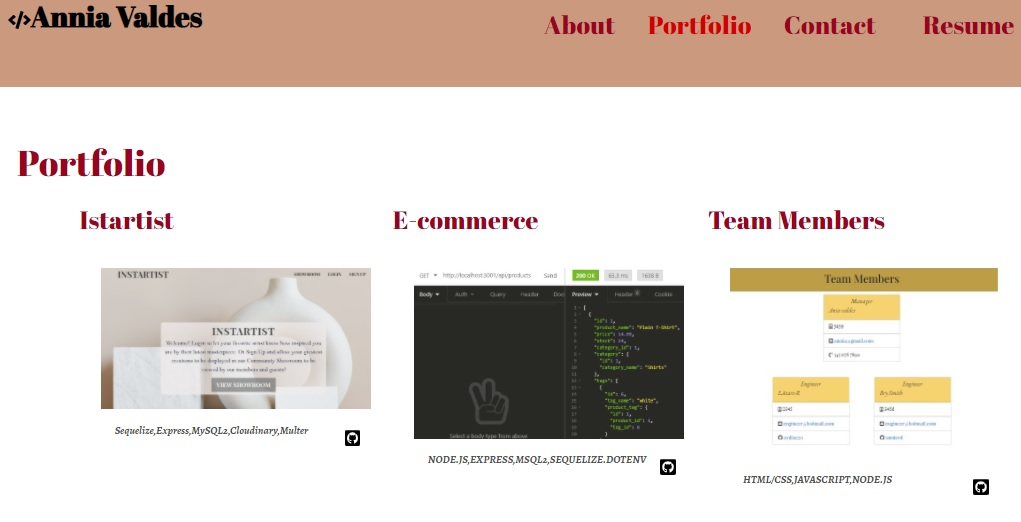
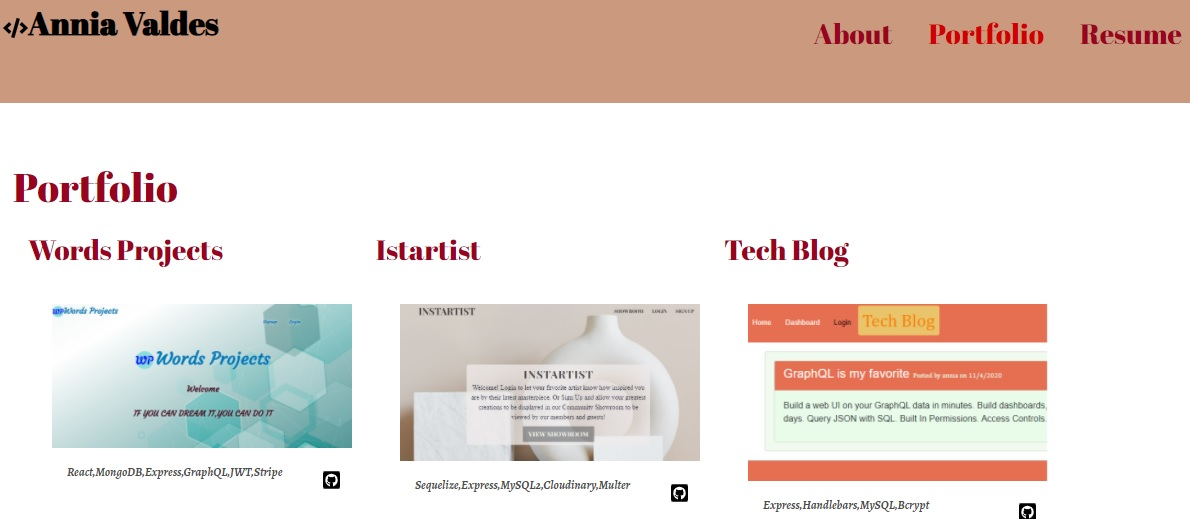
update proyect

diff --git a/src/components/Resume/index.js b/src/components/Resume/index.js
@@ -1,24 +1,40 @@
 import React from 'react';
-import  Skills from '../skills/index';
+import Skills from '../skills/index';
 import { FontAwesomeIcon } from '@fortawesome/react-fontawesome';
 import { faFile } from '@fortawesome/free-solid-svg-icons';
+import Row from 'react-bootstrap/Row'
+import Col from 'react-bootstrap/Col'
 //<i class="fas fa-file-alt"></i>
 
 function Resume() {
 
-   const others=['Analysis and Design of the Software'];
+	const others = ['Analysis and Design of the Software',
+		'Git',
+		'Github',
+		'Heroku',
+		' Unit Test Design',
+		'Microsoft Word',
+		'Excel',
+		'Power Point',
+		'Photoshop',
+		'ie.zoom',
+		'slack',
+		'Google Duo',
+		' Hangouts',
+		'Screencastify'
+	];
 
 	const front = [
 		'HTML 5',
 		'CSS 3',
 		'jQuery',
 		'Javascript',
-		'React',		
+		'React',
+		'Handlebars',
 		'Bootstrap',
-		'Materialize',		
-		'Responsive design',
-		'ApisResful',
-                
+		'Materialize',
+		'Responsive Design',
+		'Apis Resful',
 	];
 
 	const back = [
@@ -29,25 +45,42 @@ function Resume() {
 		'Sequelize ORM',
 		'MongoDB',
 		'Mongoose',
-		
-    ];
-    
+		'GraphQL',
+		'APIS',
+		'JSON',
+		'JWT',
+		'Stripe',
+		'Bcrypt',
+		'Cloudinary',
+		'Multer',
+
+	];
+
 
 	return (
-        <main>
-		<div className="resume" >
-			<h2>
-				See the Resume {' '}
-				<a	href="https://docs.google.com/document/d/1gQVMJ_44nAI9LxOkditZbVPTkwUpZovGTGVlQDBMLgw/edit?usp=sharing"   rel="noopener noreferrer"	target="_blank"	><FontAwesomeIcon icon={faFile} /></a>
-			</h2>
-			<h3>Front-end Skills</h3>
-			<ul  className="elemtSkill">{front.map((fbend) => <Skills  fbend={fbend} key={fbend}/>)}</ul>	
-			<h3>Back-end Skills</h3>
-			<ul>{back.map((fbend) => <Skills fbend={fbend} key={fbend}  />)}</ul>	
-			<h3>Others Skills</h3>
-			<ul>{others.map((fbend) => <Skills fbend={fbend} key={fbend}  />)}</ul>	
-		</div>
-        </main>
+		<main>
+			<div className="resume" >
+				<h2>
+					See the Resume {' '}
+					<a href="https://docs.google.com/document/d/1gQVMJ_44nAI9LxOkditZbVPTkwUpZovGTGVlQDBMLgw/edit?usp=sharing" rel="noopener noreferrer" target="_blank"	><FontAwesomeIcon icon={faFile} /></a>
+				</h2>
+				<Row >
+					<Col sm>
+						<h3>Front-end Skills</h3>
+						<ul className="elemtSkill">{front.map((fbend) => <Skills fbend={fbend} key={fbend} />)}</ul>
+					</Col>
+					<Col sm>
+						<h3>Back-end Skills</h3>
+						<ul>{back.map((fbend) => <Skills fbend={fbend} key={fbend} />)}</ul>
+					</Col>
+					<Col sm>
+						<h3>Others Skills</h3>
+						<ul>{others.map((fbend) => <Skills fbend={fbend} key={fbend} />)}</ul>
+					</Col>
+				</Row >
+
+			</div>
+		</main>
 	);
 }
 

diff --git a/src/components/AppsList/index.js b/src/components/AppsList/index.js
@@ -114,7 +114,50 @@ function AppsList() {
             githubLink: 'https://github.com/anniavd/code-quiz',
             deploy: 'https://anniavd.github.io/code-quiz/',
             technologies: 'HTML/CSS,Javascritp'
-        }
+        },
+        {
+            name: 'Deep Thoughts',
+            image: 'thoughts.jpg',
+            githubLink: 'https://github.com/anniavd/deep-thoughts',
+            deploy: 'https://deepsthought.herokuapp.com/',
+            technologies: 'HTML/CSS,Javascritp,React,MongoDB,Graphql,JWT'
+        },
+        {
+            name: 'Pizza Hunt',
+            image: 'pizza.jpg',
+            githubLink: 'https://github.com/anniavd/pizza-hunt',
+            deploy: 'https://tranquil-refuge-93011.herokuapp.com/',
+            technologies: 'HTML/CSS,Javascritp,Heroku'
+        },
+        {
+            name: 'Zoo Keepr',
+            image: 'zoo.jpg',
+            githubLink: 'https://github.com/anniavd/zookeepr',
+            deploy: 'https://zookeepr1.herokuapp.com/',
+            technologies: 'HTML/CSS,Javascritp,Node,Express,Jest,Heroku'
+        },
+        {
+            name: 'Git it Done',
+            image: 'git-it-done.jpg',
+            githubLink: 'https://github.com/anniavd/git-it-done',
+            deploy: 'https://anniavd.github.io/git-it-done/',
+            technologies: 'HTML/CSS,Javascritp'
+        },
+        {
+            name: 'Jest RPG',
+            image: 'jest.jpg',
+            githubLink: 'https://github.com/anniavd/jest-RPG',
+            deploy: 'https://github.com/anniavd/jest-RPG',
+            technologies: 'Node,Javascritp'
+        },
+         {
+            name: 'Budget Tracker',
+            image: 'tracker.jpg',
+            githubLink: 'https://github.com/anniavd/budget-tracker',
+            deploy: 'https://damp-springs-37599.herokuapp.com/',
+            technologies: 'HTML/CSS,Javascritp,Compression/MongoDB,Heroku'
+        }     
+        
 
     ]);
 

diff --git a/src/App.js b/src/App.js
@@ -2,7 +2,6 @@ import React, { useState } from 'react';
 import About from './components/About';
 import Navegation from './components/Navegation';
 import Footer from './components/Footer';
-import Contact from './components/Contact';
 import AppsList from './components/AppsList';
 import Resume from './components/Resume';
 
@@ -14,8 +13,7 @@ const [currentPage,setCurrentPage]=useState('About')
   const renderPage=()=>{
     switch(currentPage){
       case 'Portfolio': return <AppsList/>;
-      case 'Contact':return <Contact/>;
-     case 'Resume': return <Resume/>;
+          case 'Resume': return <Resume/>;
       default: return <About/>
     }
   }

diff --git a/src/components/About/index.js b/src/components/About/index.js
@@ -14,7 +14,7 @@ function About() {
                 <Container>
                     <Row>
                         <Col >
-                            <Image src={img} roundedCircle alt="Annia Valdes" />
+                            <Image src={img} fluid rounded alt="Annia Valdes" />
                         </Col>
 
                         <p> My name is Annia Valdes Diaz. I am a graduate in Computer Science Engineering since 2008.

diff --git a/src/index.css b/src/index.css
@@ -23,7 +23,6 @@ main{
 
 }
 
-
   /* style header star */
 .navegation {
   width: 100%;
@@ -212,7 +211,7 @@ img:hover{
 
   width: 25rem;
   max-width: 300px;
-  max-height: 300px;
+  max-height: 500px;
   display: block;
   
 }
@@ -333,6 +332,7 @@ h1,h2,h3,a{
  .navegation ul li a{
 font-size: 25px;
  }
+ 
 
  header h2 {
    font-size: 25px;

diff --git a/src/components/Portfolio/index.js b/src/components/Portfolio/index.js
@@ -16,7 +16,7 @@ function Portfolio(props) {
         <h3>{props.name}</h3>
         <div className="Project">
           <a href={props.deploy} target="blank">
-            <img className="images"
+            <img className="images" 
               src={require(`../../assets/images/${props.image}`)} alt={props.name}
 
             />

diff --git a/src/components/Navegation/index.js b/src/components/Navegation/index.js
@@ -5,7 +5,7 @@ import { faCode } from '@fortawesome/free-solid-svg-icons';
 //<i class="fas fa-code"></i>
 function Navegation(props) {
 
-  const tabs = ['About', 'Portfolio', 'Contact','Resume'];
+  const tabs = ['About', 'Portfolio','Resume'];
  
  
   return (
